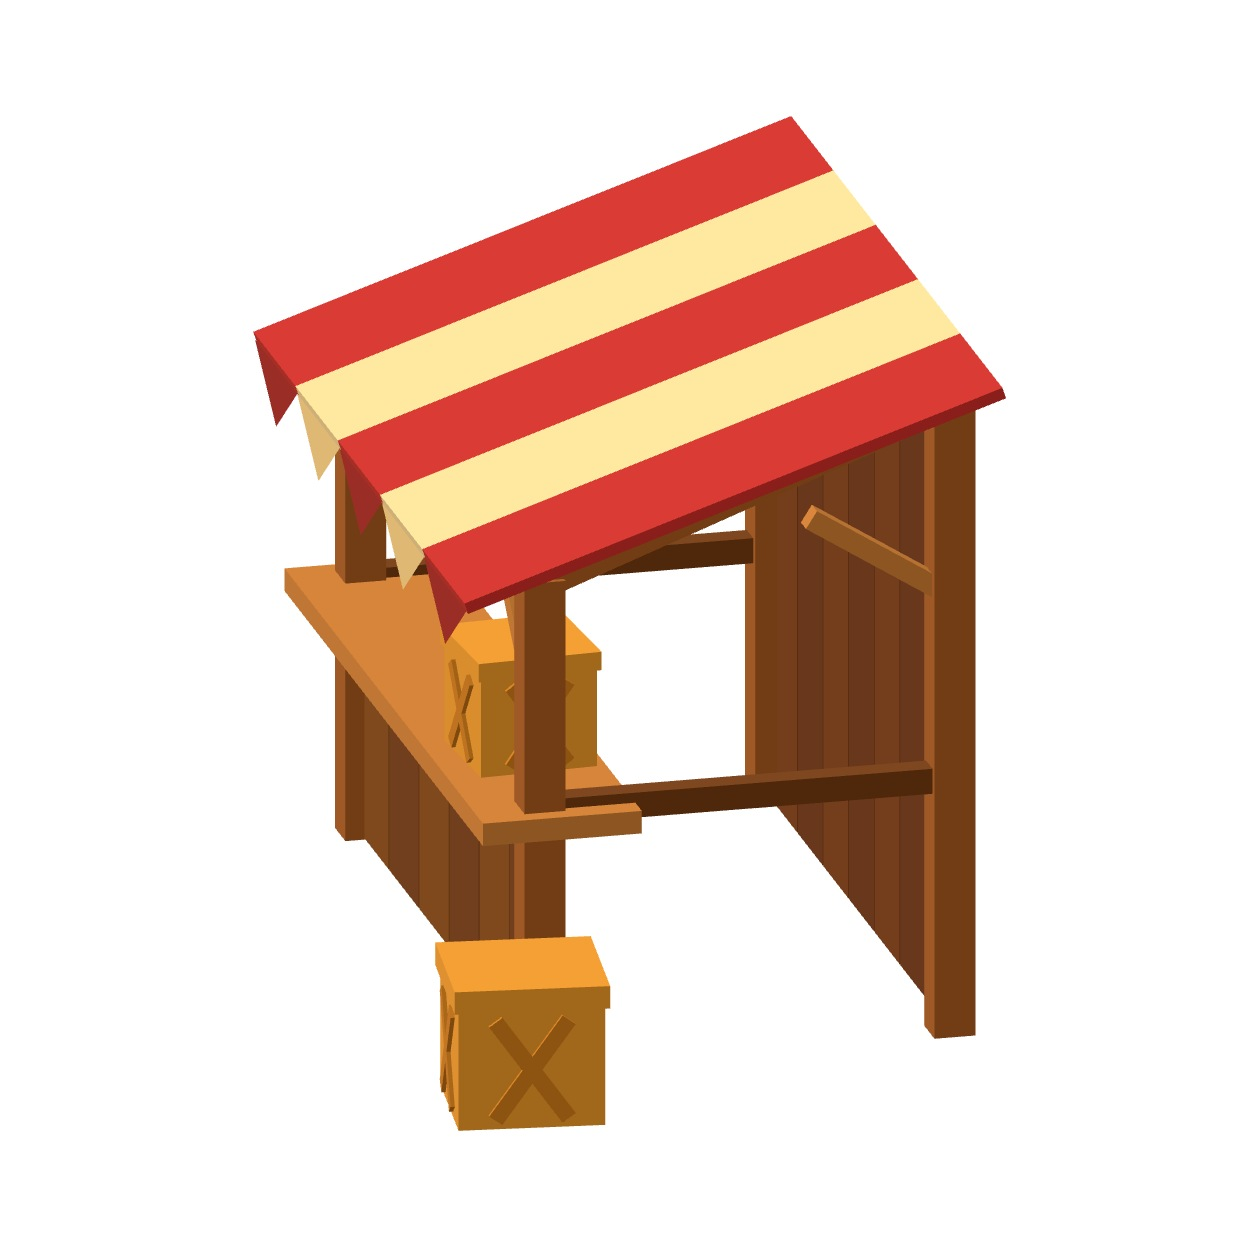
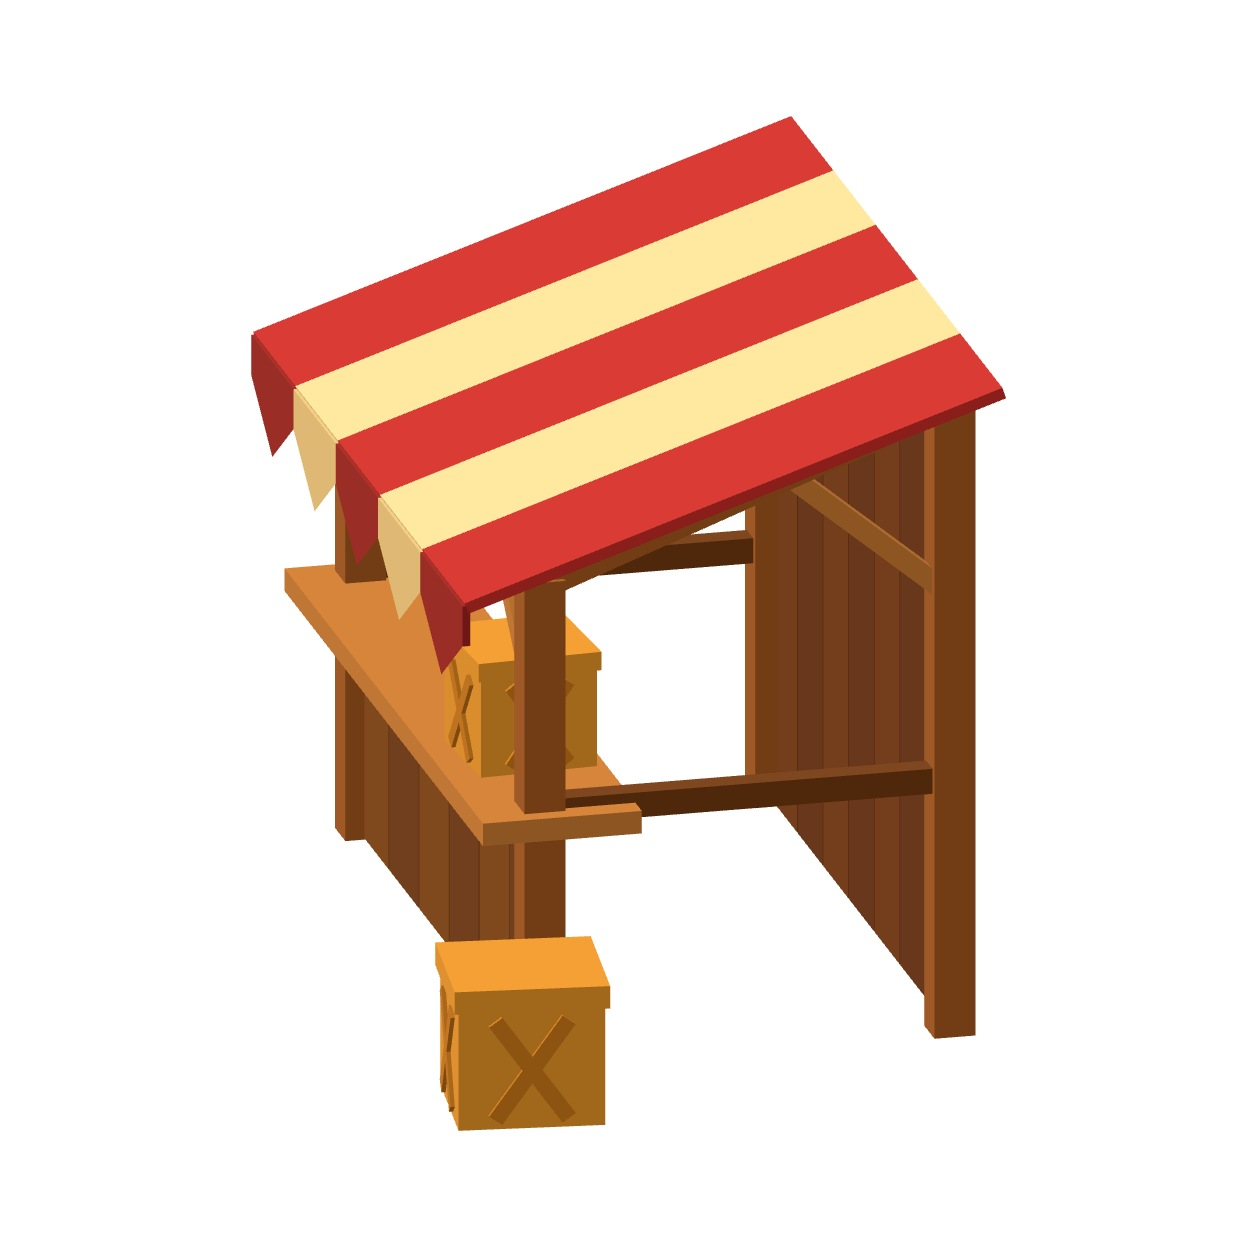
Apply ChatGPT's four fixes to the code-built bow and stall
Brace meets the rafter; awning cloth hangs before its points; ember
veins lie flush and taper; thorns are broader; nocks are visible.

Changed region(s): [[0.1866, 0.2799, 0.3732, 0.5287], [0.622, 0.3732, 0.7464, 0.4665]]

diff --git a/src/props.js b/src/props.js
@@ -4,7 +4,7 @@
 // attachment points listed in group.userData.
 (function(){
 const PALETTE={                       // taken from assets/concepts/style-sheet-v1.jpg
- timber:'#a5632f',timberDark:'#74431f',timberLight:'#c98646',wall:'#6b3a1c',
+ timber:'#a5632f',timberDark:'#74431f',timberLight:'#c98646',wall:'#6b3a1c',wallLight:'#77421f',counterLight:'#83501f',
  red:'#c5343a',redDark:'#a12a30',cream:'#f6e6bd',creamDark:'#e9d3a0',
  crate:'#e6a23c',crateDark:'#c98428',
  thornwood:'#5b2c3a',thornwoodDark:'#47212d',thornwoodLight:'#6d3646',ember:'#c8372d'
@@ -24,21 +24,28 @@ function kit(T){
 // either hand. Lies along y with its middle at the origin; the belly (the side facing the archer) is -z and the
 // thorns are on the back, +z. The string, leather grip and arrow rest are added by the game at the points in userData.
 function thornwoodBow(T){
- const {add,V}=kit(T),g=new T.Group(),P=PALETTE,half=.75,grip=.17,shoulder=.045;
- const squash=m=>{m.scale.set(.62,1,1);return m;};               // limbs are deeper front-to-back than they are wide
+ const {add,mat,V}=kit(T),g=new T.Group(),P=PALETTE,half=.75,grip=.17,shoulder=.045,SQ=.62;
+ const squash=m=>{m.scale.set(SQ,1,1);return m;};                // limbs are deeper front-to-back than they are wide
+ const y0=grip+shoulder,len=half-y0-.03,rad=y=>.03-(y-y0)/len*.021;   // limb radius at height y
  squash(add(g,new T.CylinderGeometry(.019,.019,grip*2,6),P.thornwood,0,0,0));
  for(const s of[1,-1]){
   const limb=new T.Group();limb.scale.y=s;g.add(limb);            // the lower limb is the upper one mirrored
   squash(add(limb,new T.CylinderGeometry(.03,.019,shoulder,6),P.thornwoodLight,0,grip+shoulder/2,0));
-  const len=half-grip-shoulder-.03;
-  squash(add(limb,new T.CylinderGeometry(.009,.03,len,6),P.thornwood,0,grip+shoulder+len/2,0));
-  squash(add(limb,new T.CylinderGeometry(.007,.009,.03,6),P.thornwoodDark,0,half-.015,0));   // the tip, where the string sits
-  for(const y of[.36,.56]){                                       // two blunt thorns on the back of each limb
-   const r=.03-(y-grip-shoulder)/len*.021,t=add(limb,new T.CylinderGeometry(.007,.015,.03,5),P.thornwoodLight,0,y+.006,r+.008);t.rotation.x=1.1;}
-  for(const side of[1,-1]){                                       // a flat ember vein down each side, in three bends
-   const pts=[[.26,.004],[.38,-.006],[.5,.005],[.63,-.002]];
-   for(let i=0;i<pts.length-1;i++){const[a,za]=pts[i],[b,zb]=pts[i+1],d=V(0,b-a,zb-za),ya=(a+b)/2,r=(.03-(ya-grip-shoulder)/len*.021)*.62;
-    const v=add(limb,new T.BoxGeometry(.003,d.length()+.004,.0095),P.ember,side*(r-.0005),ya,(za+zb)/2);v.rotation.x=Math.atan2(zb-za,b-a);}
+  squash(add(limb,new T.CylinderGeometry(.009,.03,len,6),P.thornwood,0,y0+len/2,0));
+  // the tip: a short block with two prongs, leaving a notch between them for the string
+  squash(add(limb,new T.CylinderGeometry(.009,.009,.016,6),P.thornwoodDark,0,half-.022,0));
+  for(const z of[.0062,-.0062])add(limb,new T.BoxGeometry(.008,.016,.0052),P.thornwoodDark,0,half-.008,z);
+  // two blunt thorns on the back of each limb, broad where they join the wood
+  for(const y of[.36,.56]){const t=add(limb,new T.CylinderGeometry(.009,.021,.03,5),P.thornwoodLight,0,y+.004,rad(y)+.006);t.rotation.x=1.15;}
+  // a flat ember vein lying in each side face of the limb: a ribbon that zig-zags slightly and tapers to nothing
+  // at both ends. The six-sided limb has a flat face on each side, at x = +-0.866 * radius * squash.
+  const ys=[.255,.33,.405,.48,.555,.63,.695],zig=[0,.3,-.3,.3,-.3,.2,0],wide=[0,.34,.4,.4,.38,.3,0];
+  for(const side of[1,-1]){
+   const pos=[],idx=[];
+   ys.forEach((y,i)=>{const r=rad(y),x=side*(r*.866*SQ+.0004),z=zig[i]*r,w=wide[i]*r/2;pos.push(x,y,z-w, x,y,z+w);});
+   for(let i=0;i<ys.length-1;i++){const a=i*2;idx.push(a,a+1,a+2, a+1,a+3,a+2);}
+   const geo=new T.BufferGeometry();geo.setAttribute('position',new T.Float32BufferAttribute(pos,3));geo.setIndex(idx);geo.computeVertexNormals();
+   limb.add(new T.Mesh(geo,mat(P.ember,true)));
   }
  }
  g.userData={name:'A4 Thornwood bow',length:half*2,points:{grip:V(0,0,0),rest:V(0,.045,0),nockTop:V(0,half-.012,0),nockBottom:V(0,-half+.012,0)},forward:'+z',note:'held at grip; string runs between the two nocks'};
@@ -49,23 +56,26 @@ function thornwoodBow(T){
 function marketStall(T){
  const {add,box,beam,V}=kit(T),g=new T.Group(),P=PALETTE;
  const X=1.4,ZF=.8,ZB=-.8,post=.16,HF=1.95,HB=2.55;
+ const rafter=z=>HB-.02+(HF-HB)*(z-ZB)/(ZF-ZB);                              // height of the rafter above depth z
  for(const x of[X,-X]){
   box(g,post,HF,post,P.timber,x,HF/2,ZF);box(g,post,HB,post,P.timber,x,HB/2,ZB);
   beam(g,V(x,1.02,ZF),V(x,1.02,ZB),.1,P.timberDark);                          // side rail at counter height
-  beam(g,V(x,HF-.02,ZF),V(x,HB-.02,ZB),.11,P.timber);                         // rafter under the awning
-  beam(g,V(x,1.4,ZF),V(x-Math.sign(x)*.55,HF-.03,ZF),.08,P.timberLight);      // corner brace across the front
-  beam(g,V(x,1.75,ZB),V(x,2.1,ZB+.55),.08,P.timberLight);                     // brace from back post to rafter
+  beam(g,V(x,rafter(ZF),ZF),V(x,rafter(ZB),ZB),.11,P.timber);                 // rafter under the awning
+  beam(g,V(x,1.4,ZF),V(x-Math.sign(x)*.55,HF-.06,ZF),.08,P.timberLight);      // corner brace across the front, up to the front beam
+  beam(g,V(x,1.75,ZB),V(x,rafter(ZB+.62)-.03,ZB+.62),.08,P.timberLight);      // brace from the back post up to the rafter
  }
  beam(g,V(-X,HF-.06,ZF),V(X,HF-.06,ZF),.11,P.timber);beam(g,V(-X,HB-.06,ZB),V(X,HB-.06,ZB),.11,P.timber);
- for(let i=0;i<7;i++)box(g,.39,HB-.12,.05,i%2?P.wall:'#77421f',-1.2+i*.4,(HB-.12)/2,ZB-.03);   // plank back wall
+ for(let i=0;i<7;i++)box(g,.39,HB-.12,.05,i%2?P.wall:P.wallLight,-1.2+i*.4,(HB-.12)/2,ZB-.03);     // plank back wall
  box(g,3.1,.09,.62,P.timberLight,0,.985,ZF-.05);                              // counter top
- for(let i=0;i<6;i++)box(g,.46,.93,.05,i%2?P.timberDark:'#83501f',-1.175+i*.47,.47,ZF-.02);     // plank counter front
- // awning: five stripes sloping down to the front, each with a point hanging from its front edge
- const y0=HB+.07,z0=ZB-.15,y1=HF-.02,z1=ZF+.35,len=Math.hypot(y1-y0,z1-z0),tilt=Math.atan2(y0-y1,z1-z0),w=3.3/5;
+ for(let i=0;i<6;i++)box(g,.46,.93,.05,i%2?P.timberDark:P.counterLight,-1.175+i*.47,.47,ZF-.02);  // plank counter front
+ // awning: five stripes sloping down to the front. At the front edge the cloth turns and hangs straight down for a
+ // short way, then ends in one point per stripe.
+ const y0=HB+.07,z0=ZB-.15,y1=HF-.02,z1=ZF+.35,len=Math.hypot(y1-y0,z1-z0),tilt=Math.atan2(y0-y1,z1-z0),w=3.3/5,drop=.16,point=.22;
  for(let i=0;i<5;i++){
-  const c=i%2?P.cream:P.red,x=-1.65+w*(i+.5),s=box(g,w,.045,len,c,x,(y0+y1)/2,(z0+z1)/2);s.rotation.x=tilt;
-  const sh=new T.Shape();sh.moveTo(-w/2,0);sh.lineTo(w/2,0);sh.lineTo(0,-.24);sh.closePath();
-  add(g,new T.ShapeGeometry(sh),i%2?P.creamDark:P.redDark,x,y1-.01,z1,true);
+  const c=i%2?P.cream:P.red,dark=i%2?P.creamDark:P.redDark,x=-1.65+w*(i+.5),s=box(g,w,.045,len,c,x,(y0+y1)/2,(z0+z1)/2);s.rotation.x=tilt;
+  box(g,w,drop,.03,dark,x,y1-drop/2+.01,z1);
+  const sh=new T.Shape();sh.moveTo(-w/2,0);sh.lineTo(w/2,0);sh.lineTo(0,-point);sh.closePath();
+  add(g,new T.ShapeGeometry(sh),dark,x,y1-drop+.01,z1+.015,true);
  }
  const crate=(s,x,y,z,turn)=>{const c=new T.Group();c.position.set(x,y,z);c.rotation.y=turn;g.add(c);
   box(c,s,s*.84,s,P.crate,0,s*.42,0);box(c,s*1.06,s*.16,s*1.06,P.crate,0,s*.92,0);

diff --git a/tests/props.html b/tests/props.html
@@ -12,14 +12,14 @@ const wait=setInterval(async()=>{
  const T=w.THREE,report=[];
  const tris=o=>{let n=0;o.traverse(m=>{if(m.geometry)n+=(m.geometry.index?m.geometry.index.count:m.geometry.attributes.position.count)/3;});return n;};
  const draws=o=>{let n=0;o.traverse(m=>{if(m.geometry)n++;});return n;};
- async function shot(name,build,W,H,dir,zoom,up){
+ async function shot(name,build,W,H,dir,zoom,up,at){
   const c=document.createElement("canvas");c.width=W;c.height=H;document.getElementById("views").append(c);
   const r=new T.WebGLRenderer({canvas:c,antialias:true,preserveDrawingBuffer:true});r.setClearColor(0xffffff);
   const s=new T.Scene();s.add(new T.HemisphereLight(0xfff1cc,0xb9a58c,1.9));const sun=new T.DirectionalLight(0xffe5bb,2.3);sun.position.set(-3,6,5);s.add(sun);
   const o=build(T);s.add(o);
   const b=new T.Box3().setFromObject(o),mid=b.getCenter(new T.Vector3()),size=b.getSize(new T.Vector3()),span=Math.max(size.x,size.y,size.z);
   const cam=new T.OrthographicCamera(-span*zoom*W/H,span*zoom*W/H,span*zoom,-span*zoom,.01,100);
-  cam.position.copy(mid).add(new T.Vector3(...dir).normalize().multiplyScalar(span*4));if(up)cam.up.set(...up);cam.lookAt(mid);
+  if(at)mid.set(...at);cam.position.copy(mid).add(new T.Vector3(...dir).normalize().multiplyScalar(span*4));if(up)cam.up.set(...up);cam.lookAt(mid);
   r.render(s,cam);
   report.push({name,triangles:tris(o),parts:draws(o),size:[size.x,size.y,size.z].map(v=>+v.toFixed(2)),points:Object.keys(o.userData.points||{})});
   if(save){const blob=await new Promise(f=>c.toBlob(f,"image/jpeg",.93));try{await fetch("http://127.0.0.1:8767/put/"+name+".jpg",{method:"POST",mode:"no-cors",body:blob});}catch(e){report.push({name,saveError:String(e)});}}
@@ -28,6 +28,7 @@ const wait=setInterval(async()=>{
  await shot("h6-market-stall-code-side",PROPS.marketStall,1254,1254,[1,.35,.25],.62);
  await shot("a4-thornwood-bow-code",PROPS.thornwoodBow,1024,1536,[1,0,0],.54);
  await shot("a4-thornwood-bow-code-detail",PROPS.thornwoodBow,1024,1536,[1,.15,.8],.54);
+ await shot("a4-thornwood-bow-code-tip",PROPS.thornwoodBow,1254,1254,[1,.1,.55],.07,null,[0,.66,0]);
  document.getElementById("out").textContent="RESULT "+JSON.stringify(report);
 },200);
 </script>
